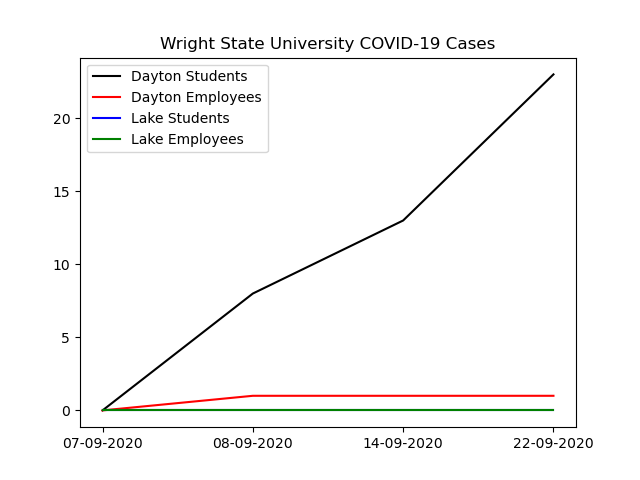
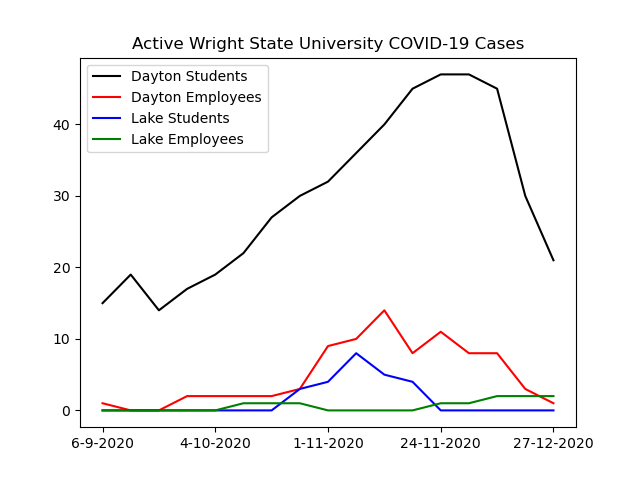
Now tracks active cases. Cleaned up CSV handling

diff --git a/tracker.py b/tracker.py
@@ -15,15 +15,24 @@ from bs4 import BeautifulSoup
 
 
 def generate_plot(dataframe):
+    def convert_to_active_cases(weeks):
+        # Active cases are the sum of confirmed and self-reported cases across both campuses for the current week plus the previous two weeks.
+        active_cases = []
+        for i in range(2, len(weeks)):
+            active_cases.append(weeks[i] + weeks[i - 1] + weeks[i - 2])
+        return active_cases
+
     colors = ['black', 'red', 'blue', 'green', 'orange', 'purple']
 
     datasets = []
-    datasets.append(list(dataframe['dayton_students']))
-    datasets.append(list(dataframe['dayton_employees']))
-    datasets.append(list(dataframe['lake_students']))
-    datasets.append(list(dataframe['lake_employees']))
+    # datasets.append(list(dataframe['dayton_students']))
+    datasets.append(convert_to_active_cases(dataframe['dayton_students']))
+    datasets.append(convert_to_active_cases(dataframe['dayton_employees']))
+    datasets.append(convert_to_active_cases(dataframe['lake_students']))
+    datasets.append(convert_to_active_cases(dataframe['lake_employees']))
 
-    dates = list(dataframe['date'])
+    dates = list(dataframe['date'])[2:]
+
     dataset_labels = ['Dayton Students', 'Dayton Employees', 'Lake Students', 'Lake Employees']
 
     fig = plt.figure()
@@ -35,11 +44,11 @@ def generate_plot(dataframe):
 
     # plt.xticks([dates[i] for i in range(0, len(dates) + 1, len(dates) // 4)])
     cleaned_dates = []
-    [cleaned_dates.append(x) for x in dates if x not in cleaned_dates] 
+    [cleaned_dates.append(x) for x in dates if x not in cleaned_dates]
     dates = cleaned_dates.copy()
     plt.xticks([dates[i] for i in range(0, len(dates), len(dates) // 4)])
     plt.legend(loc='upper left')
-    plt.title('Wright State University COVID-19 Cases')
+    plt.title('Active Wright State University COVID-19 Cases')
 
     plt.savefig('plot.png')
 
@@ -82,45 +91,51 @@ def send_emails():
     server.close()
 
 
+def format_date(date):
+    months = ['January', 'February', 'March', 'April', 'May', 'June', 'July', 'August', 'September', 'October', 'November', 'December']
+
+    month_day = date[:date.find('–')]
+    month = months.index(month_day[:month_day.find(' ')]) + 1
+    day = month_day[-2:].strip()
+    year = date[date.rfind(', ') + 1:].strip()
+
+    return f'{day}-{month}-{year}'
+
+
 if __name__ == '__main__':
     page = urllib.request.urlopen('https://www.wright.edu/coronavirus/covid-19-dashboard')
     soup = BeautifulSoup(page, features='html.parser')
     # print(soup.prettify())
 
-    # Parse table
+    # Parse tables
     tables = soup.find_all('table', attrs={'cellpadding': '1', 'cellspacing': '1'})
-    tables_data = []
-    for table in tables:
-        data = []
+    columns = ['date', 'dayton_students', 'dayton_employees', 'lake_students', 'lake_employees']
+    data = []
+    for table_num, table in enumerate(tables):
         table_body = table.find('tbody')
 
         rows = table_body.find_all('tr')
         for row in rows:
             cols = row.find_all('td')
-            cols = [ele.text.strip() for ele in cols]
-            data.append([ele for ele in cols if ele])  # Get rid of empty values
+            if str(cols[0]) != '<td><strong>Totals</strong></td>':
+                date = format_date(str(cols[0]).strip('</td>\np'))
+                # Check if date not in data
+                if not any(date in i for i in data):
+                    # If so, make new row
+                    data.append([date, 0, 0, 0, 0])
 
-        tables_data.append(data)
+                # Append data
+                for i in range(len(data)):
+                    if data[i][0] == date:
+                        confirmed = int(str(cols[1]).replace('strong>', '').strip('<>/td'))
+                        self_reported = int(str(cols[2]).replace('strong>', '').strip('<>/td'))
+                        data[i][table_num + 1] = confirmed + self_reported
+    data.reverse()
 
-    current_data = {'date': str(datetime.today().strftime('%d-%m-%Y')),
-                    'dayton_students': int(tables_data[0][0][-1]),
-                    'dayton_employees': int(tables_data[1][0][-1]),
-                    'lake_students': int(tables_data[2][0][-1]),
-                    'lake_employees': int(tables_data[3][0][-1])}
+    dataframe = pd.DataFrame(data, columns=columns)
+    dataframe.to_csv('cases.csv', index=False)
 
-    try:
-        # Append today's data
-        cases_df = pd.read_csv('cases.csv')
-        cases_df = cases_df.append(current_data, ignore_index=True)
-        cases_df.to_csv('cases.csv', index=False)
-    except FileNotFoundError:
-        # Initial write
-        for key in current_data.keys():
-            current_data[key] = [current_data[key]]
-        cases_df = pd.DataFrame(current_data)
-        cases_df.to_csv('cases.csv', index=False)
-
-    generate_plot(cases_df)
+    generate_plot(dataframe)
 
     # Send emails
     send_emails()
